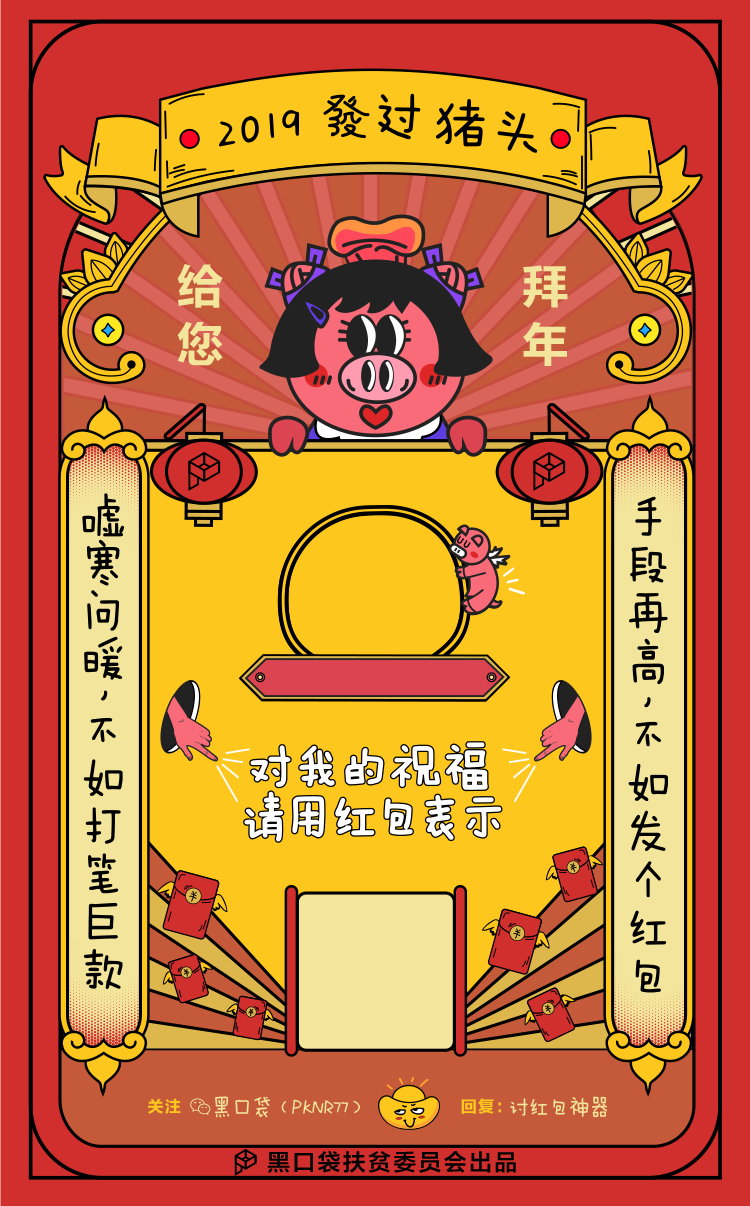
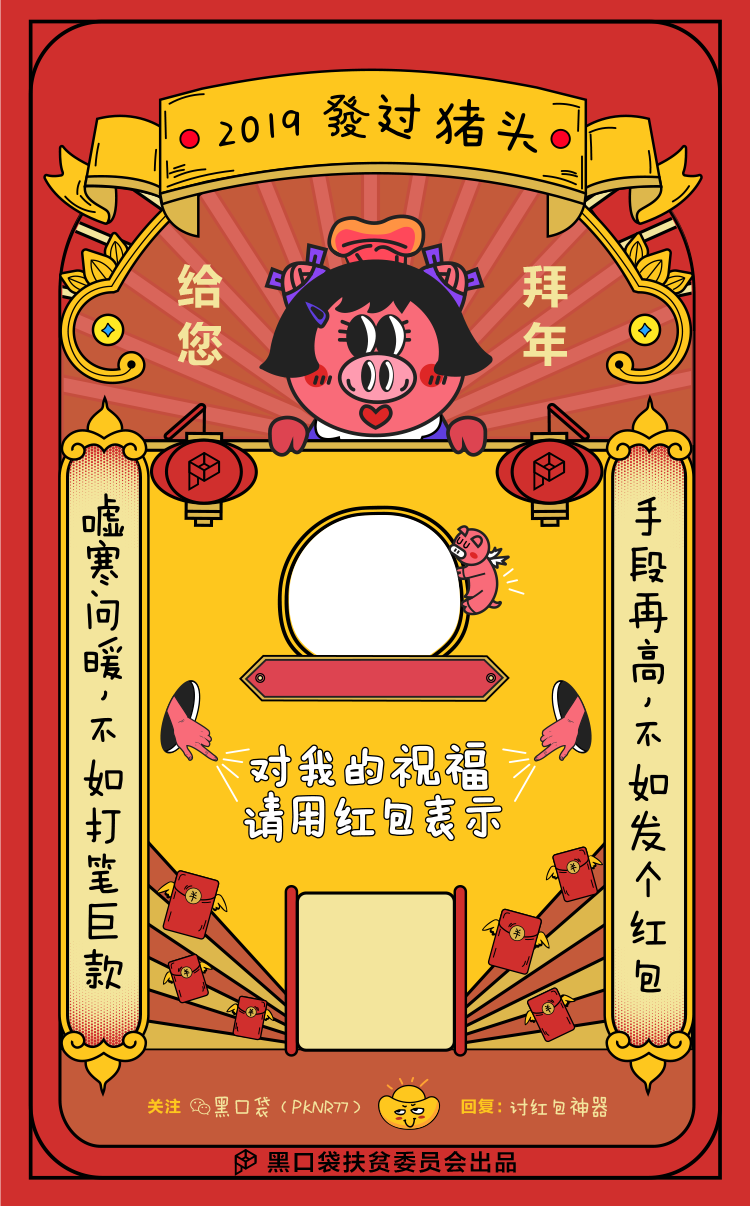
上传2019春节合成图片修改图片位置修改图片背景

Changed region(s): [[0.3067, 0.3988, 0.6747, 0.5829]]

diff --git a/app/Services/ChunJie2019Service.php b/app/Services/ChunJie2019Service.php
@@ -73,7 +73,7 @@ class ChunJie2019Service
         /** @var 获取头像并生成新二维码 $user */
 //        $user = \EasyWeChat::officialAccount()->user->get($this->openId);
 //        var_dump($cjt);die;
-////        $url = ;
+//////        $url = ;
         ChunJie2019Service::generate($this->openId, $this->avatar, $this->nickname,"/ChunJie2019/bjImg/a.png",'a');
         ChunJie2019Service::generate($this->openId, $this->avatar, $this->nickname,"/ChunJie2019/bjImg/b.png",'b');
         ChunJie2019Service::generate($this->openId, $this->avatar, $this->nickname,"/ChunJie2019/bjImg/c.png",'c');
@@ -97,16 +97,18 @@ class ChunJie2019Service
         $publicDisk->put($shoukuanma, $shoukumaQrCode);
 
         $imagine = new Imagine();
-        $bgi = $imagine->open(__DIR__ . $url);
 
+//        Imagine\Image\Box
+        $size  = new Box(1080,1920);
+        $bgi = $imagine->create($size);
 
         $palette = new RGB();
 
         $shoukumai = $imagine->open($publicDisk->path($shoukuanma));
         $shoukumai->resize(new Box(200,200));
-        $bgi->resize(new Box(1080,1920));
+
         $headi = $imagine->open($publicDisk->path($head));
-        $headi->resize(new Box(170,170));
+        $headi->resize(new Box(270,270));
         $color = '#000';//fec71c
 //        $image = $imagine->create(new Box(240, 240), $palette->color('#000'));
 
@@ -114,55 +116,93 @@ class ChunJie2019Service
 //        $headi->draw()->ellipse(new Point(85, 85), new Box(190, 190),$palette->color('fff'));
 //        $headi->draw()->pieSlice(new Point(85, 85), new Box(180, 180),$palette->color('fff'));
         if ($key =='a'){
-            $bgi->paste($shoukumai, new Point(441, 1442));//背景图
-            $bgi->paste($headi, new Point(461,870)); //头像
+            $noBgi = $imagine->open(__DIR__ . $url);
+            $noBgi->resize(new Box(1080,1920));
+
+            $bgi->paste($headi, new Point(418,793)); //头像
+            $bgi->paste($noBgi, new Point(0,0));
+
+
+
+            $bgi->paste($shoukumai, new Point(441, 1444));//背景图
 
             $font = new Font(__DIR__ . '/ChunJie2018H5/SY.ttf', '36', $palette->color($color)); //昵称信息
             $box = $font->box($nickname);
             $bgi->draw()->text($nickname, $font, new Point(($bgi->getSize()->getWidth() - $box->getWidth())/2,1062), 0, 2);
         }
         if ($key =='b'){
+
+            $noBgi = $imagine->open(__DIR__ . $url);
+            $noBgi->resize(new Box(1080,1920));
+
+            $bgi->paste($headi, new Point(417,359));
+            $bgi->paste($noBgi, new Point(0,0));
             $bgi->paste($shoukumai, new Point(442, 746));
-            $bgi->paste($headi, new Point(463,436));
 
             $font = new Font(__DIR__ . '/ChunJie2018H5/SY.ttf', '36', $palette->color($color)); //昵称信息
             $box = $font->box($nickname);
-            $bgi->draw()->text($nickname, $font, new Point(($bgi->getSize()->getWidth() - $box->getWidth())/2,630), 0, 2);
+            $bgi->draw()->text($nickname, $font, new Point(($bgi->getSize()->getWidth() - $box->getWidth())/2,623), 0, 2);
         }
         if ($key =='c'){
+
+            $noBgi = $imagine->open(__DIR__ . $url);
+            $noBgi->resize(new Box(1080,1920));
+            $bgi->paste($headi, new Point(422,354));
+
+            $bgi->paste($noBgi, new Point(0,0));
             $bgi->paste($shoukumai, new Point(452, 758));
-            $bgi->paste($headi, new Point(465,431));
+
 
             $font = new Font(__DIR__ . '/ChunJie2018H5/SY.ttf', '36', $palette->color($color)); //昵称信息
             $box = $font->box($nickname);
-            $bgi->draw()->text($nickname, $font, new Point(($bgi->getSize()->getWidth() - $box->getWidth())/2,625), 0, 2);
+            $bgi->draw()->text($nickname, $font, new Point(($bgi->getSize()->getWidth() - $box->getWidth())/2,622), 0, 2);
         }
 
 
 
         if ($key =='a1'){
-            $bgi->paste($shoukumai, new Point(437, 1405));//背景图
-            $bgi->paste($headi, new Point(464,922)); //头像
+
+            $noBgi = $imagine->open(__DIR__ . $url);
+            $noBgi->resize(new Box(1080,1920));
+
+            $bgi->paste($headi, new Point(413,860)); //头像
+            $bgi->paste($noBgi, new Point(0,0));
+
+            $bgi->paste($shoukumai, new Point(437, 1417));//背景图
+
 
             $font = new Font(__DIR__ . '/ChunJie2018H5/SY.ttf', '36', $palette->color($color)); //昵称信息
             $box = $font->box($nickname);
             $bgi->draw()->text($nickname, $font, new Point(($bgi->getSize()->getWidth() - $box->getWidth())/2,1114), 0, 2);
         }
         if ($key =='b1'){
-            $bgi->paste($shoukumai, new Point(442, 807));
-            $bgi->paste($headi, new Point(463,517));
+
+            $noBgi = $imagine->open(__DIR__ . $url);
+            $noBgi->resize(new Box(1080,1920));
+
+            $bgi->paste($headi, new Point(408,437));
+            $bgi->paste($noBgi, new Point(0,0));
+
+            $bgi->paste($shoukumai, new Point(442, 799));
+
 
             $font = new Font(__DIR__ . '/ChunJie2018H5/SY.ttf', '36', $palette->color($color)); //昵称信息
             $box = $font->box($nickname);
-            $bgi->draw()->text($nickname, $font, new Point(($bgi->getSize()->getWidth() - $box->getWidth())/2,704), 0, 2);
+            $bgi->draw()->text($nickname, $font, new Point(($bgi->getSize()->getWidth() - $box->getWidth())/2,693), 0, 2);
         }
         if ($key =='c1'){
-            $bgi->paste($shoukumai, new Point(452, 823));
-            $bgi->paste($headi, new Point(465,512));
+
+            $noBgi = $imagine->open(__DIR__ . $url);
+            $noBgi->resize(new Box(1080,1920));
+
+            $bgi->paste($headi, new Point(420,435));
+            $bgi->paste($noBgi, new Point(0,0));
+
+            $bgi->paste($shoukumai, new Point(452, 814));
 
             $font = new Font(__DIR__ . '/ChunJie2018H5/SY.ttf', '36', $palette->color($color)); //昵称信息
             $box = $font->box($nickname);
-            $bgi->draw()->text($nickname, $font, new Point(($bgi->getSize()->getWidth() - $box->getWidth())/2,705), 0, 2);
+            $bgi->draw()->text($nickname, $font, new Point(($bgi->getSize()->getWidth() - $box->getWidth())/2,690), 0, 2);
         }
 
 //        var_dump($headi);exit();
